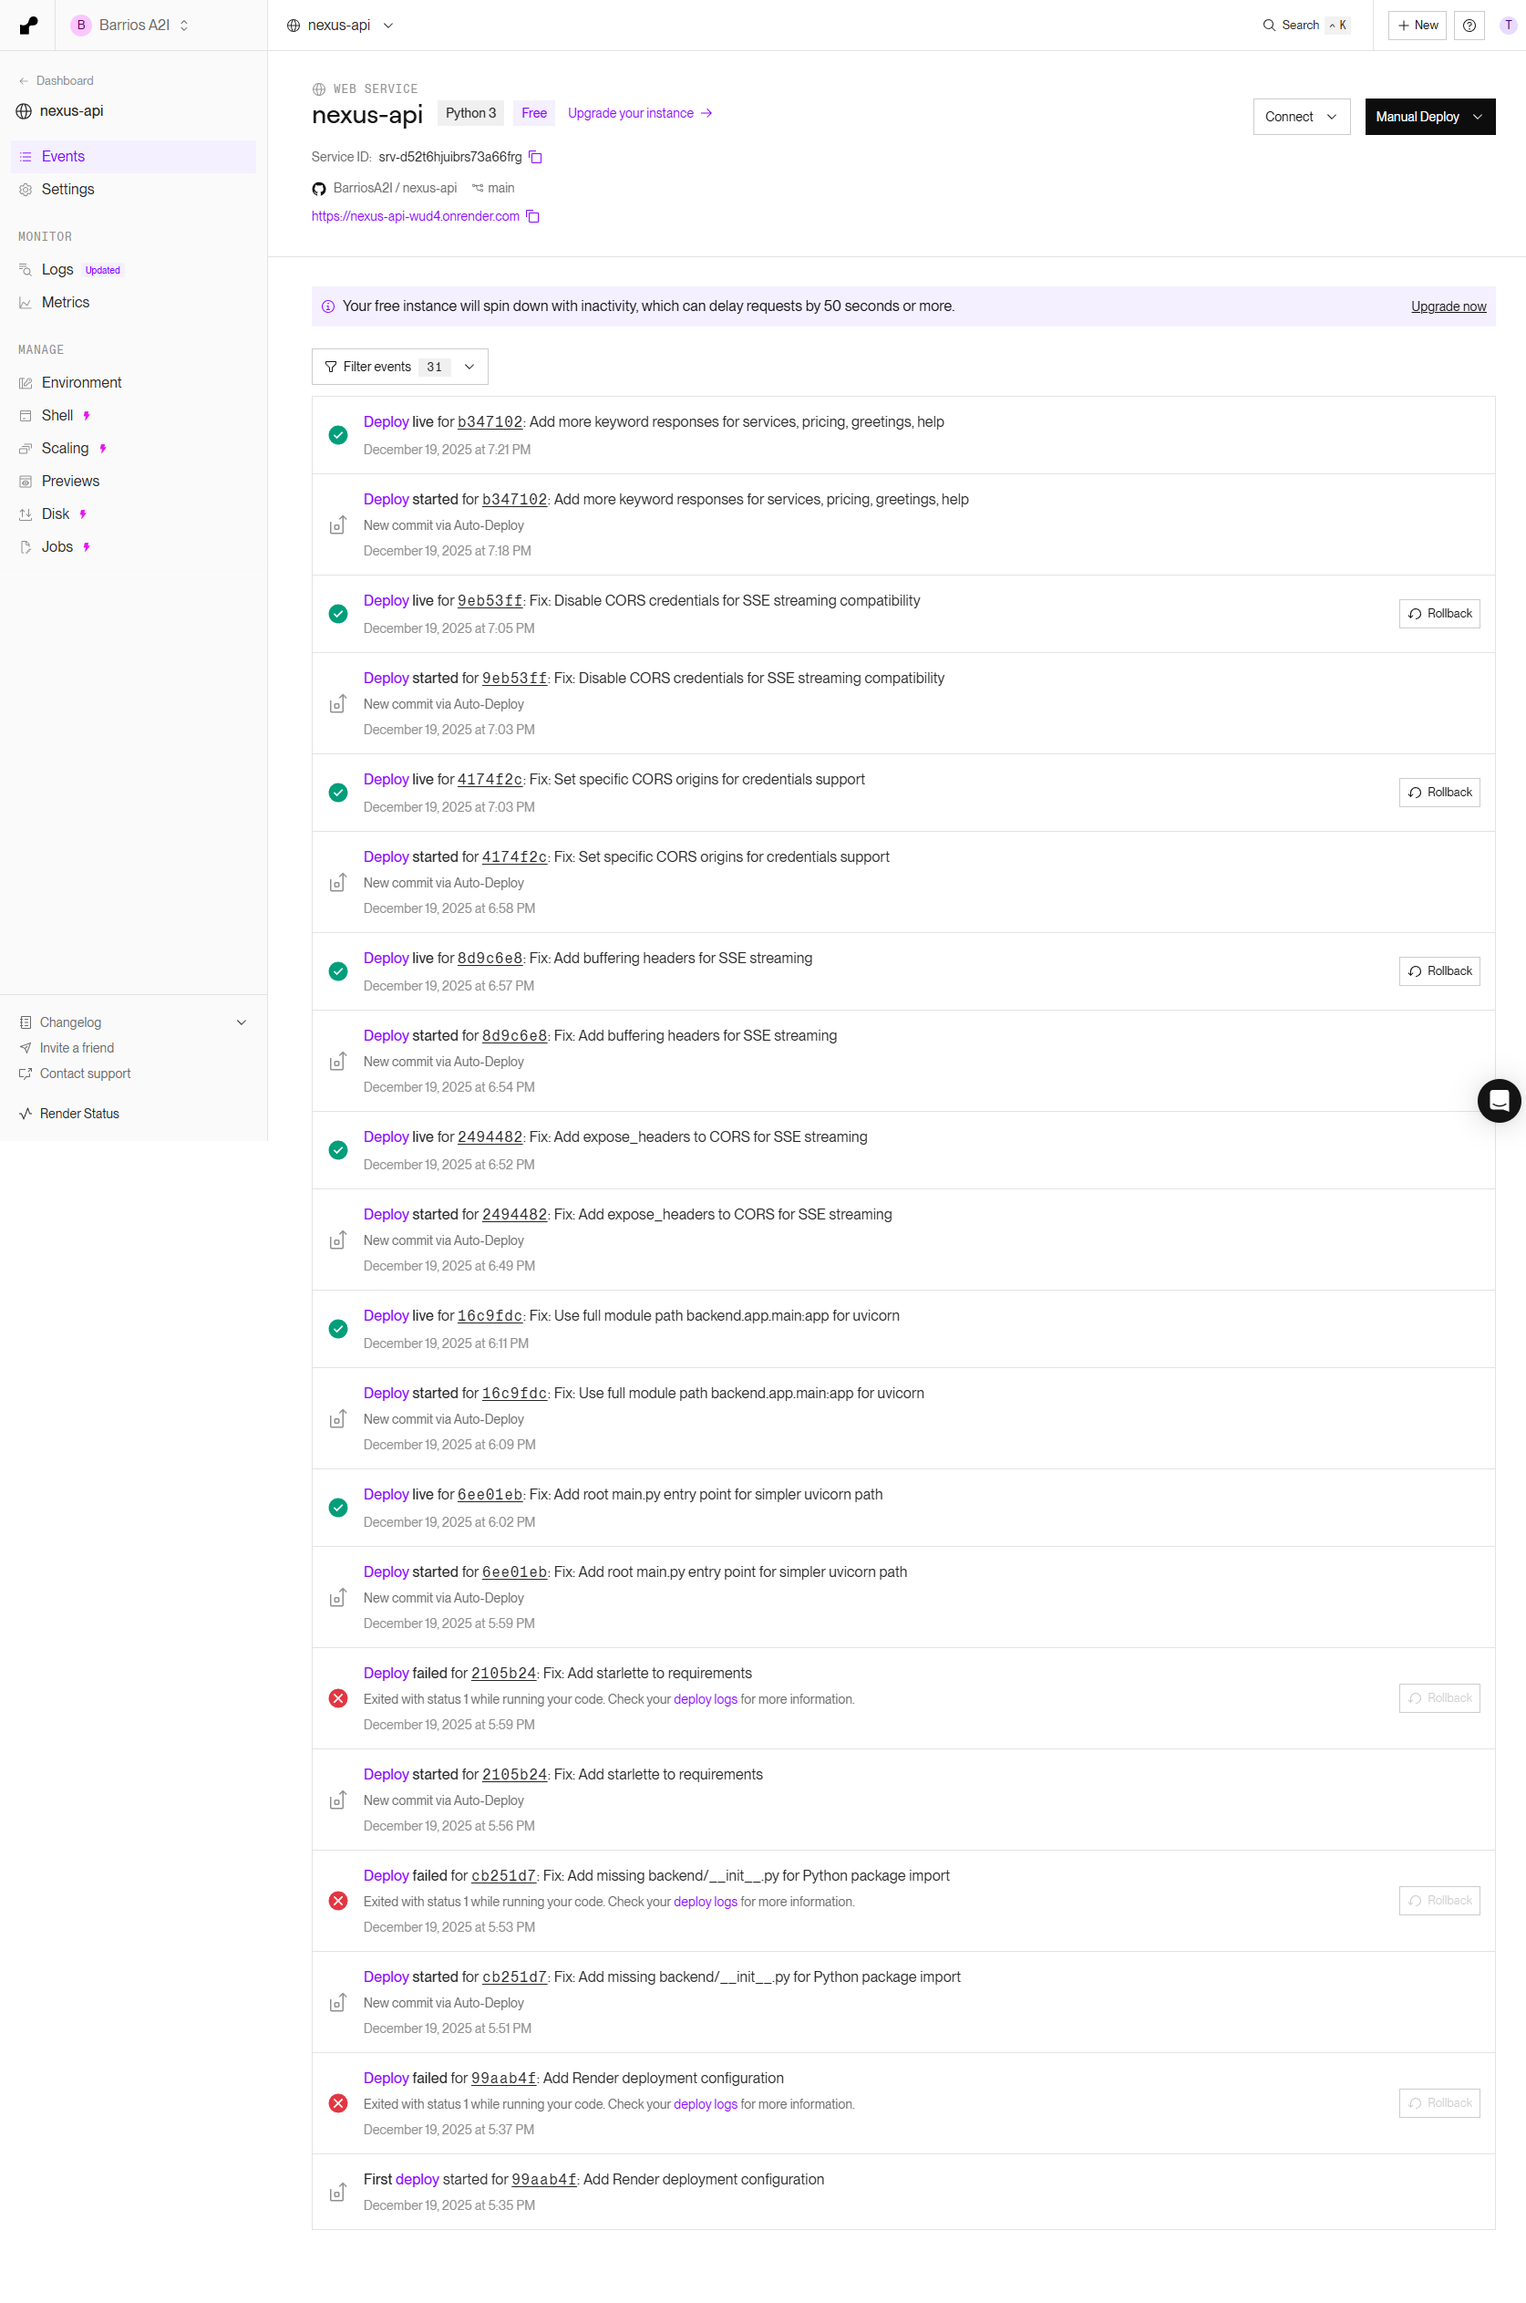
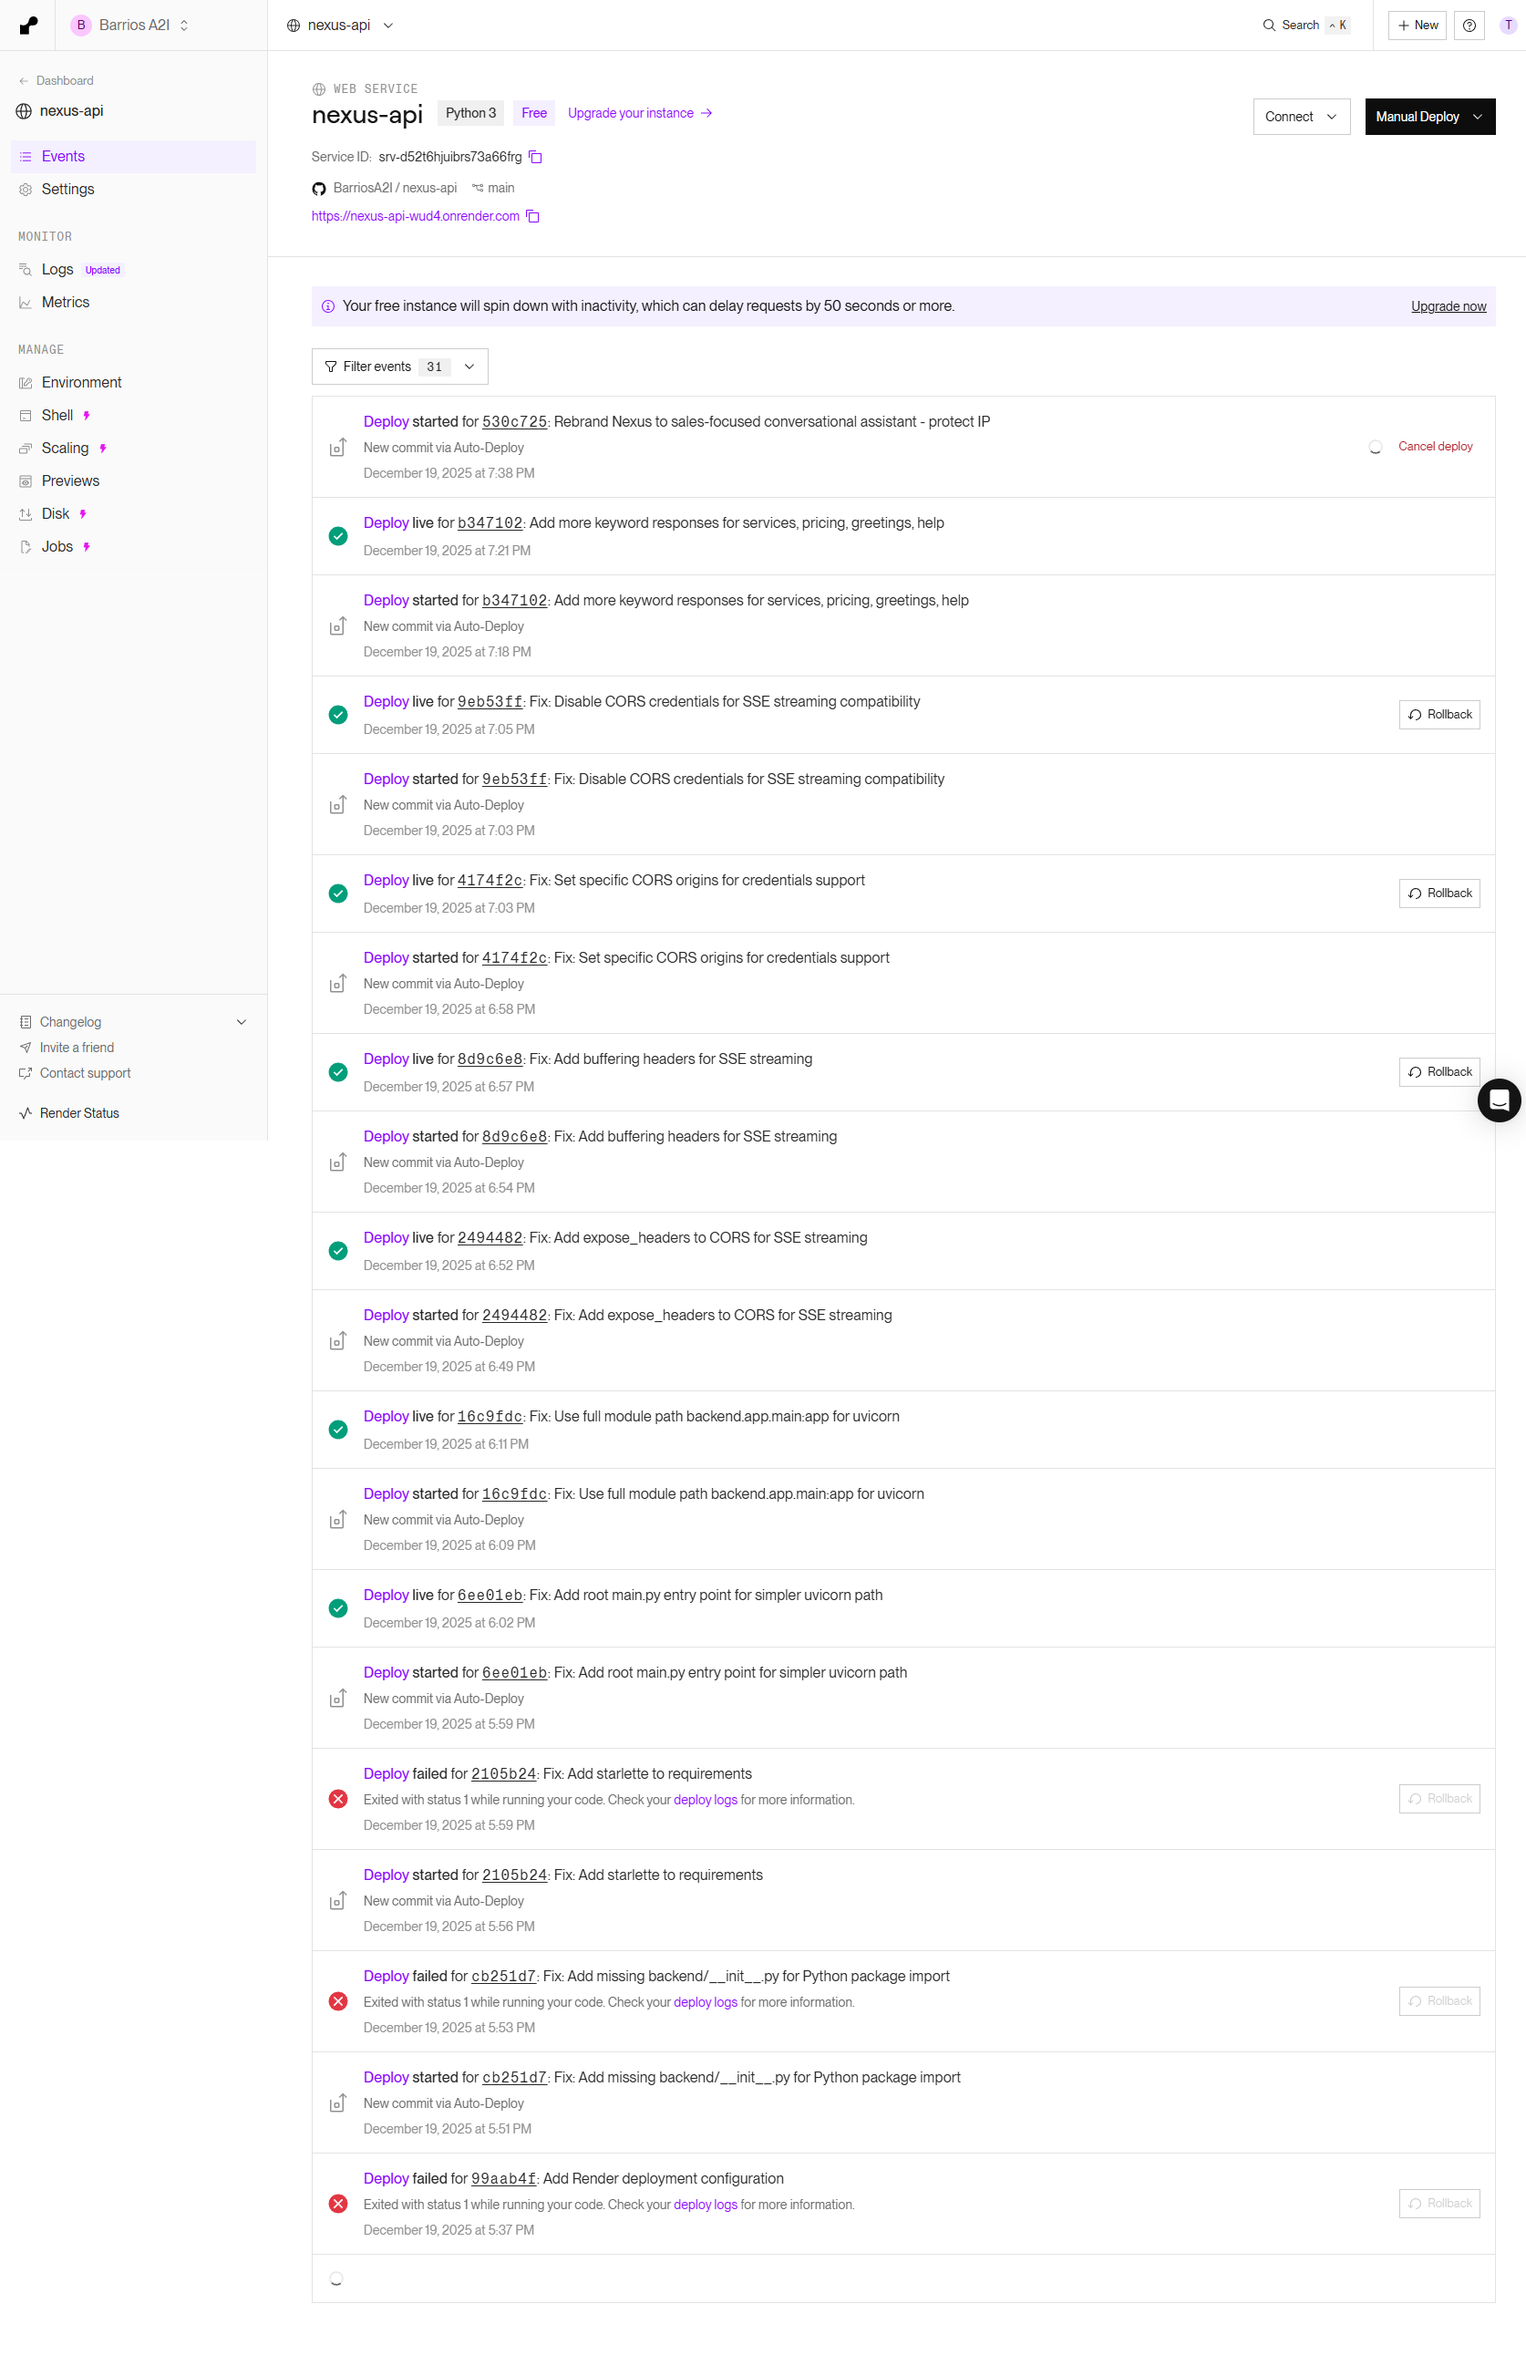
Implement Sales-Safe SSE Protocol - remove confidence/trace_id/sources

diff --git a/backend/app/routers/nexus.py b/backend/app/routers/nexus.py
@@ -28,6 +28,7 @@ from ..services.rag_local import get_rag_service
 from ..services.job_store import get_job_store
 from ..services.ragnarok_bridge import get_ragnarok_bridge
 from ..services.circuit_breaker import circuit_registry, CircuitBreakerError
+from ..utils.sse_helpers import sse_thinking, sse_delta, sse_final, sse_error
 
 logger = logging.getLogger(__name__)
 
@@ -75,116 +76,61 @@ async def generate_rag_response(
     trace_id: str,
 ) -> AsyncGenerator[str, None]:
     """
-    Generate RAG-based response with SSE streaming.
+    Sales-Safe RAG streaming generator.
 
-    Steps:
-    1. Circuit check
-    2. Semantic search
-    3. Context assembly
-    4. Response generation (simulated LLM)
-    5. Completion with sources
+    Uses human-friendly event types: meta, delta, final, error
+    Never exposes: confidence, trace_id, sources, internal step names
     """
     rag_service = get_rag_service()
-    sources = []
-    confidence = 0.0
 
     try:
-        # Step 1: Circuit check
-        yield sse_event({
-            "type": "status",
-            "step": "circuit_check",
-            "message": "Checking neural pathways...",
-            "trace_id": trace_id,
-        })
+        # Opening status (human-friendly)
+        yield sse_thinking("One sec—getting context.")
         await asyncio.sleep(0.1)
 
-        # Check circuit breaker
+        # Internal work - logged but not streamed
         rag_circuit = circuit_registry.get_or_create("rag_service")
         if rag_circuit.is_open:
             raise CircuitBreakerError("rag_service", rag_circuit.state)
 
-        # Step 2: Semantic search
-        yield sse_event({
-            "type": "status",
-            "step": "semantic_search",
-            "message": "Searching knowledge base...",
-            "trace_id": trace_id,
-        })
+        logger.info(f"[{trace_id}] Circuit check passed")
 
+        # RAG search (internal)
         start_search = time.time()
         context, source_list = rag_service.get_context(message, max_tokens=2000)
         search_time = int((time.time() - start_search) * 1000)
+        logger.info(f"[{trace_id}] Retrieved {len(source_list)} sources in {search_time}ms")
 
-        # Convert sources to Source objects
-        sources = [
-            Source(
-                title=s["title"],
-                chunk_id=s["chunk_id"],
-                relevance=s["relevance"],
-                excerpt=s["excerpt"],
-                file=s.get("file"),
-            )
-            for s in source_list
-        ]
+        # Generate response
+        response = await generate_contextual_response(message, context, source_list)
 
-        # Calculate confidence based on source relevance
-        if sources:
-            confidence = min(0.95, sum(s.relevance for s in sources) / len(sources) + 0.2)
-        else:
-            confidence = 0.3
-
-        logger.info(f"[{trace_id}] RAG search: {len(sources)} sources in {search_time}ms")
-
-        # Step 3: Generate response
-        yield sse_event({
-            "type": "status",
-            "step": "generation",
-            "message": "Synthesizing response...",
-            "trace_id": trace_id,
-        })
-
-        # Generate response based on context
-        response = await generate_contextual_response(message, context, sources)
-
-        # Step 4: Stream response chunks
+        # Stream response chunks using delta events
         words = response.split()
         for i, word in enumerate(words):
             chunk = word + (" " if i < len(words) - 1 else "")
-            yield sse_event({
-                "type": "chunk",
-                "content": chunk,
-            })
-            await asyncio.sleep(0.03 + (0.02 * (len(word) / 10)))  # Variable delay
+            yield sse_delta(chunk)
+            await asyncio.sleep(0.03 + (0.02 * (len(word) / 10)))
 
-        # Step 5: Completion
-        yield sse_event({
-            "type": "complete",
-            "trace_id": trace_id,
-            "confidence": round(confidence, 2),
-            "sources": [s.model_dump() for s in sources],
-            "mode": "rag",
-            "tokens_used": len(response.split()) * 2,
-            "latency_ms": int((time.time() - start_search) * 1000),
-        })
+        # Determine next action based on message content
+        message_lower = message.lower()
+        next_action = "question"
+        if any(term in message_lower for term in ["commercial", "video", "ad", "intake"]):
+            next_action = "intake"
+        elif any(term in message_lower for term in ["book", "call", "meeting", "schedule"]):
+            next_action = "booking"
 
-    except CircuitBreakerError as e:
-        yield sse_event({
-            "type": "error",
-            "code": "CIRCUIT_OPEN",
-            "message": f"Service temporarily unavailable: {e.circuit_name}",
-            "recoverable": True,
-            "trace_id": trace_id,
-        })
+        # Final event - NO confidence, NO sources, just support code
+        yield sse_final(trace_id, next_action)
+
+    except CircuitBreakerError:
+        logger.error(f"[{trace_id}] Circuit breaker open")
+        yield sse_error("I'm having trouble loading right now. Try again in a moment.")
+        yield sse_final(trace_id, "question")
 
     except Exception as e:
-        logger.error(f"[{trace_id}] RAG error: {e}")
-        yield sse_event({
-            "type": "error",
-            "code": "RAG_ERROR",
-            "message": str(e),
-            "recoverable": True,
-            "trace_id": trace_id,
-        })
+        logger.error(f"[{trace_id}] Chat error: {e}")
+        yield sse_error("Something went wrong. Let me try again.")
+        yield sse_final(trace_id, "question")
 
 
 async def generate_contextual_response(
@@ -326,23 +272,19 @@ async def generate_ragnarok_response(
     trace_id: str,
 ) -> AsyncGenerator[str, None]:
     """
-    Handle RAGNAROK mode - queue video generation job.
+    Sales-Safe video generation streaming.
+    Uses human-friendly event types: meta, delta, final
     """
     job_store = get_job_store()
 
     try:
-        yield sse_event({
-            "type": "status",
-            "step": "ragnarok_init",
-            "message": "Initializing RAGNAROK pipeline...",
-            "trace_id": trace_id,
-        })
+        yield sse_thinking("Setting up your video request...")
         await asyncio.sleep(0.2)
 
         # Extract brief from message
         brief = message
 
-        # Submit job
+        # Submit job (internal)
         job = await job_store.submit(
             job_type="ragnarok_generate",
             payload={
@@ -354,54 +296,28 @@ async def generate_ragnarok_response(
             metadata={"trace_id": trace_id},
         )
 
-        yield sse_event({
-            "type": "status",
-            "step": "job_queued",
-            "message": f"Job queued: {job.id}",
-            "trace_id": trace_id,
-        })
+        logger.info(f"[{trace_id}] Video job queued: {job.id}")
 
-        # Stream response
+        # Sales-friendly response (no technical details)
         response = (
-            f"I've queued your commercial generation request.\n\n"
-            f"**Job ID**: `{job.id}`\n"
-            f"**Status**: {job.status.value}\n\n"
-            f"You can check the status at:\n"
-            f"`GET /api/nexus/ragnarok/jobs/{job.id}`\n\n"
-            f"The RAGNAROK pipeline will process your request:\n"
-            f"- Brief: *{brief[:100]}{'...' if len(brief) > 100 else ''}*\n"
-            f"- Duration: 30 seconds\n"
-            f"- Platform: YouTube 1080p\n"
-            f"- Estimated time: ~4 minutes"
+            f"Great! I've started your video request.\n\n"
+            f"Your video will be ready in about 4-5 minutes. "
+            f"We'll create a professional 30-second commercial based on your brief.\n\n"
+            f"While you wait, is there anything else you'd like to know about our services?"
         )
 
         words = response.split()
         for i, word in enumerate(words):
             chunk = word + (" " if i < len(words) - 1 else "")
-            yield sse_event({
-                "type": "chunk",
-                "content": chunk,
-            })
+            yield sse_delta(chunk)
             await asyncio.sleep(0.02)
 
-        yield sse_event({
-            "type": "complete",
-            "trace_id": trace_id,
-            "confidence": 1.0,
-            "sources": [],
-            "mode": "ragnarok",
-            "job_id": job.id,
-        })
+        yield sse_final(trace_id, "intake")
 
     except Exception as e:
-        logger.error(f"[{trace_id}] RAGNAROK error: {e}")
-        yield sse_event({
-            "type": "error",
-            "code": "RAGNAROK_ERROR",
-            "message": str(e),
-            "recoverable": True,
-            "trace_id": trace_id,
-        })
+        logger.error(f"[{trace_id}] Video request error: {e}")
+        yield sse_error("I had trouble setting up your video request. Let's try again.")
+        yield sse_final(trace_id, "question")
 
 
 @router.post("/chat")

diff --git a/backend/app/utils/sse_helpers.py b/backend/app/utils/sse_helpers.py
@@ -1,0 +1,59 @@
+"""
+Sales-Safe SSE Protocol Helpers
+Never expose: confidence, trace_id, sources, internal step names, model names
+"""
+import json
+from typing import Optional
+
+
+def make_support_code(trace_id: str) -> str:
+    """
+    Convert internal trace_id to customer-safe support code.
+    "nxs_1766188864_53483d2f" -> "NX-53483D"
+    """
+    if not trace_id:
+        return "NX-GENERIC"
+    parts = trace_id.split("_")
+    tail = parts[-1] if len(parts) > 1 else trace_id
+    return f"NX-{tail[:6].upper()}"
+
+
+def sse_pack(event_type: str, data: dict) -> str:
+    """
+    Pack event into SSE format.
+    Valid event_type: meta, delta, final, error
+    """
+    payload = {"type": event_type, **data}
+    return f"data: {json.dumps(payload, ensure_ascii=False)}\n\n"
+
+
+# Pre-built events for common cases
+def sse_thinking(message: str = "One sec—getting context.") -> str:
+    """Send thinking status"""
+    return sse_pack("meta", {"state": "thinking", "message": message})
+
+
+def sse_working(message: str = "Still with you...") -> str:
+    """Send working status"""
+    return sse_pack("meta", {"state": "working", "message": message})
+
+
+def sse_delta(text: str) -> str:
+    """Send text chunk"""
+    return sse_pack("delta", {"text": text})
+
+
+def sse_final(trace_id: str, next_action: str = "question") -> str:
+    """
+    Send final event with support code.
+    next_action: "question" | "intake" | "booking" | "offer"
+    """
+    return sse_pack("final", {
+        "support_code": make_support_code(trace_id),
+        "next": next_action
+    })
+
+
+def sse_error(message: str = "I'm having trouble loading right now. Try again in a moment.") -> str:
+    """Send error event"""
+    return sse_pack("error", {"message": message})

diff --git a/backend/app/utils/__init__.py b/backend/app/utils/__init__.py
@@ -1,0 +1,1 @@
+# Utils package
